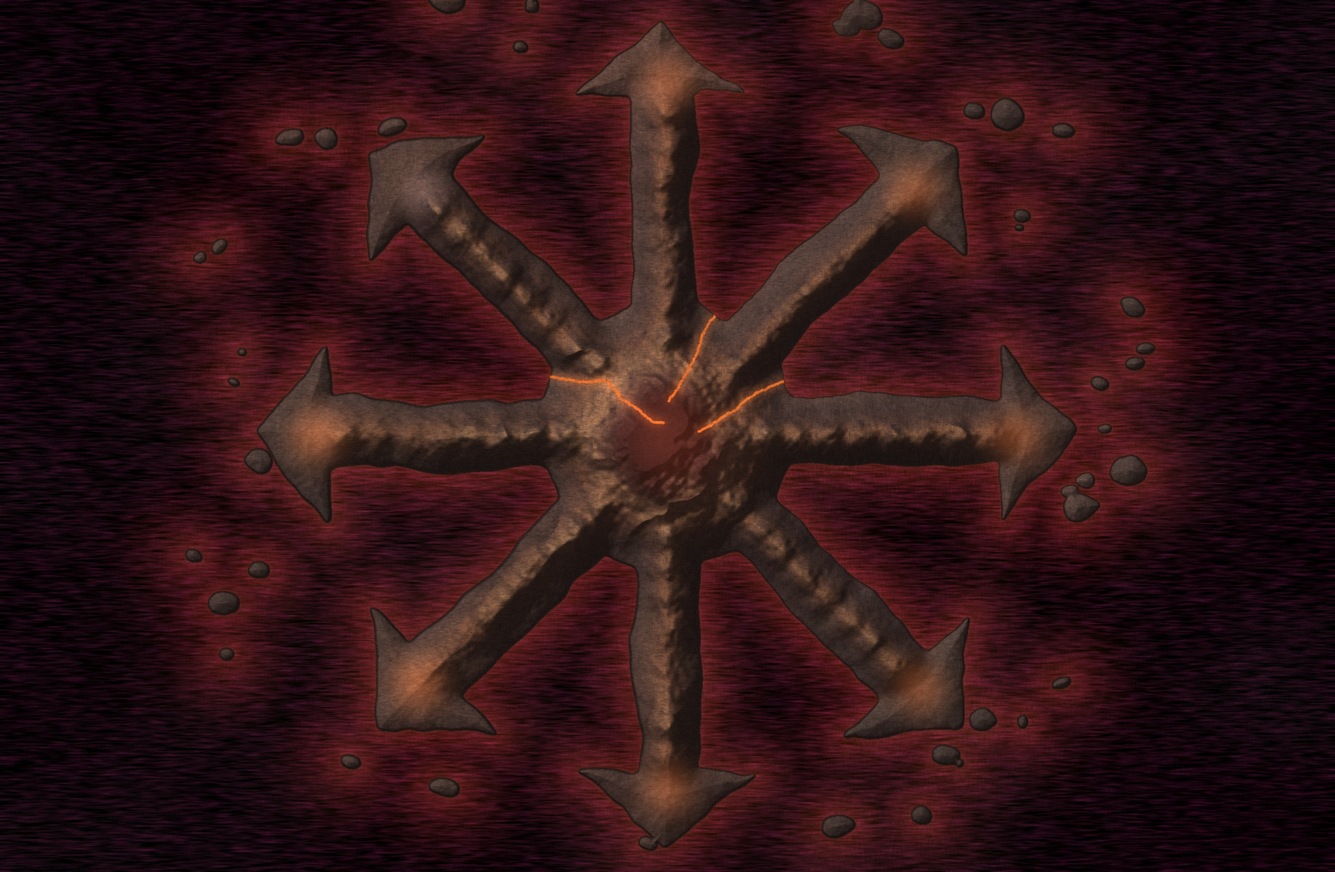
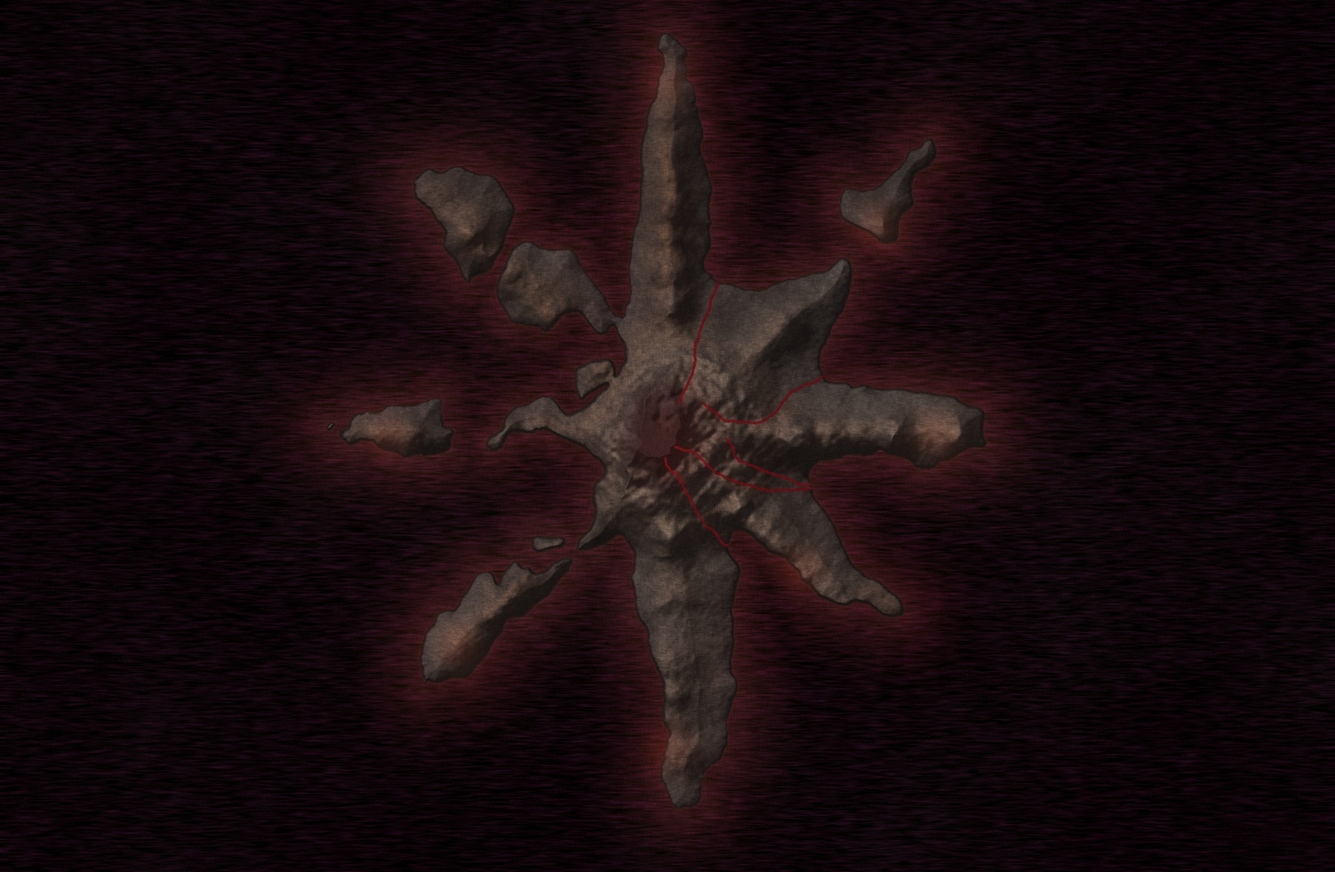
The Eightpoints, torn rather than stamped
The stencilled star was too much: a realm you read at a glance is not
one you look at twice. Italy is a boot only if you are told.

The star is now a bias on where the ground survived, not a shape. Land
held along the eight arms and sank between them; rifts cracked the arms
through where the realm was remade; the arm-ends broke into isles, so
three of the arcways stand on fragments off the mainland. The Varanspire's
plateau alone did not break. Seen once it is a wasteland. Seen twice, it
is the symbol.

And it is dismal, not Aqshy. The rivers run dark — is that blood? maybe
— the ground is ash and dead timber, scorched earth pools in the
hollows, and the void is black more than crimson. The arcways burn low.

The arm-tip walker now crosses the gaps a torn arm has, so a gate lands
on the last ground along its bearing rather than collapsing back onto
the hub when the arm breaks.

diff --git a/src/data/maps/eightpoints.js b/src/data/maps/eightpoints.js
@@ -27,16 +27,16 @@ export default {
       "name": "Carngrad",
       "kind": "fortress",
       "region": "The Eightpoints",
-      "x": 1027,
-      "y": 1036
+      "x": 1039,
+      "y": 1049
     },
     {
       "id": "flayhaunt",
       "name": "Flayhaunt",
       "kind": "fortress",
       "region": "The Eightpoints",
-      "x": 1646,
-      "y": 769
+      "x": 1640,
+      "y": 750
     },
     {
       "id": "arcway-fire",
@@ -44,22 +44,22 @@ export default {
       "kind": "settlement",
       "region": "The Eightpoints",
       "x": 1300,
-      "y": 161
+      "y": 155
     },
     {
       "id": "arcway-life",
       "name": "The Genesis Gate",
       "kind": "settlement",
       "region": "The Eightpoints",
-      "x": 1783,
-      "y": 366
+      "x": 1708,
+      "y": 441
     },
     {
       "id": "arcway-beasts",
       "name": "The Mawgate",
       "kind": "settlement",
       "region": "The Eightpoints",
-      "x": 1981,
+      "x": 1823,
       "y": 850
     },
     {
@@ -67,8 +67,8 @@ export default {
       "name": "The Endgate",
       "kind": "settlement",
       "region": "The Eightpoints",
-      "x": 1792,
-      "y": 1342
+      "x": 1560,
+      "y": 1110
     },
     {
       "id": "arcway-metal",
@@ -76,22 +76,22 @@ export default {
       "kind": "settlement",
       "region": "The Eightpoints",
       "x": 1300,
-      "y": 1540
+      "y": 1458
     },
     {
       "id": "arcway-shadow",
       "name": "The Penumbral Gate",
       "kind": "settlement",
       "region": "The Eightpoints",
-      "x": 812,
-      "y": 1337
+      "x": 889,
+      "y": 1260
     },
     {
       "id": "arcway-light",
       "name": "The Arcway of Hysh",
       "kind": "settlement",
       "region": "The Eightpoints",
-      "x": 616,
+      "x": 756,
       "y": 850
     },
     {
@@ -99,16 +99,16 @@ export default {
       "name": "The Meteoric Gate (sealed)",
       "kind": "settlement",
       "region": "The Eightpoints",
-      "x": 819,
-      "y": 369
+      "x": 870,
+      "y": 420
     },
     {
       "id": "skarrgrim",
       "name": "Skarrgrim",
       "kind": "fortress",
       "region": "The Eightpoints",
-      "x": 1234,
-      "y": 1210
+      "x": 1242,
+      "y": 1198
     }
   ],
   "extraLinks": [],

diff --git a/scripts/paint-realm.py b/scripts/paint-realm.py
@@ -131,7 +131,7 @@ def tip_along(land, cx, cy, angle, back=48):
             break
         if land[y, x]:
             last = r
-        elif last is not None and r - last > 60:
+        elif last is not None and r - last > 320:   # a torn arm has gaps; keep going past them
             break
     r = max(0, (last or 0) - back)
     return int(cx + np.cos(angle) * r), int(cy + np.sin(angle) * r)
@@ -520,23 +520,26 @@ def compose_azyr(rng):
 # arcway at the tip of every arm.
 
 EIGHTPOINTS = {
-    'water': [(0, (64, 14, 26)), (0.4, (34, 8, 18)), (1, (12, 4, 10))],
-    'shelf': (130, 48, 36),
-    'land': [(0, (78, 60, 52)), (0.12, (66, 52, 46)), (0.35, (98, 66, 48)),
-             (0.6, (124, 92, 66)), (0.85, (70, 48, 44)), (1, (44, 30, 30))],
-    'forest': (52, 40, 36),
-    'rock': (56, 44, 42),
-    'peak': (36, 22, 24),
+    'water': [(0, (38, 10, 16)), (0.4, (22, 6, 12)), (1, (8, 3, 6))],
+    'shelf': (84, 40, 36),
+    'land': [(0, (70, 62, 58)), (0.12, (62, 56, 52)), (0.35, (84, 70, 60)),
+             (0.6, (104, 88, 74)), (0.85, (66, 52, 48)), (1, (44, 34, 32))],
+    'land2': [(0, (58, 50, 50)), (0.12, (72, 58, 50)), (0.35, (92, 68, 54)),
+              (0.6, (86, 76, 70)), (0.85, (60, 48, 46)), (1, (40, 32, 32))],
+    'forest': (34, 30, 28),            # dead timber, standing black
+    'rock': (52, 46, 44),
+    'peak': (36, 28, 28),
     'peak_from': 0.76,
-    'drift': (22, 10, 6),
-    'river': (255, 120, 40),      # lava, not water
+    'drift': (16, 8, 6),
+    'river': (110, 12, 18),            # is that blood? maybe
     'river_width': 3,
-    'river_glow': 0.9,
-    'water_grain': 12,
+    'river_glow': 0.12,
+    'rubble': (18, 10, 10),            # scorched earth pooled in the hollows
+    'water_grain': 8,
     'water_scale': 12,
-    'water_streak': (12, 3, 8),
-    'tint': (70, 20, 30),
-    'tint_amount': 0.06,
+    'water_streak': (8, 2, 6),
+    'tint': (40, 16, 22),
+    'tint_amount': 0.10,
 }
 
 
@@ -545,39 +548,25 @@ def compose_eightpoints(rng):
     cx, cy = 1300, 850
     # The Allpoints as the name says: eight arms out from the Varanspire, with
     # the coast crumbling off every one of them into a sea that is not water.
-    # Archaon did not find this shape; he made it. The Star of Chaos, drawn as
-    # ground: a disc for the Varanspire, eight straight arms out from it, and
-    # an arrowhead on the end of every one. The coast crumbles enough to be a
-    # coast and no more, so the symbol stays legible from the overview.
-    mask = np.zeros(shape, np.float32)
-    cv2.circle(mask, (cx, cy), 250, 1.0, -1)
-    for k in range(8):
-        a = -np.pi / 2 + k * np.pi / 4
-        ux, uy = np.cos(a), np.sin(a)
-        px, py = -uy, ux                       # across the arm
-        shaft_w, shaft_len, head_w, head_len = 64, 470, 180, 150
-        s0, s1 = 180, 180 + shaft_len
-        shaft = np.array([
-            (cx + ux * s0 + px * shaft_w, cy + uy * s0 + py * shaft_w),
-            (cx + ux * s1 + px * shaft_w, cy + uy * s1 + py * shaft_w),
-            (cx + ux * s1 - px * shaft_w, cy + uy * s1 - py * shaft_w),
-            (cx + ux * s0 - px * shaft_w, cy + uy * s0 - py * shaft_w),
-        ], np.int32)
-        head = np.array([
-            (cx + ux * s1 + px * head_w, cy + uy * s1 + py * head_w),
-            (cx + ux * (s1 + head_len), cy + uy * (s1 + head_len)),
-            (cx + ux * s1 - px * head_w, cy + uy * s1 - py * head_w),
-        ], np.int32)
-        cv2.fillPoly(mask, [shaft], 1.0)
-        cv2.fillPoly(mask, [head], 1.0)
-    field = cv2.GaussianBlur(mask, (0, 0), 6)
-    # Slag skerries off the arrowheads, so it is a realm and not a stencil.
-    for _ in range(50):
-        a = rng.uniform(0, 2 * np.pi); d = rng.uniform(780, 1000)
-        r = rng.uniform(24, 80)
-        field = np.maximum(field, blob(shape, cx + np.cos(a) * d, cy + np.sin(a) * d, r, r * 0.8, power=1.0) * rng.uniform(0.7, 1.0))
-    field += (fbm(rng, shape, octaves=6, base=18) - 0.5) * 0.28
-    field = coastify(field, rng, big=22, small=16)
+    # Archaon did not find this shape; he made it — but the realm was torn,
+    # not stamped. The star is a BIAS on where the ground survived: land holds
+    # along the eight arms and has sunk between them, and even the arms are
+    # cracked through by rifts and broken off into isles at the ends. Seen
+    # once it is a wasteland. Seen twice, it is the symbol.
+    starf = star(shape, cx, cy, r_out=790, r_in=300, points=8, rot=-np.pi / 2) ** 0.32
+    starf = cv2.GaussianBlur(starf, (0, 0), 26)
+    starf /= starf.max() + 1e-6
+    base = fbm(rng, shape, octaves=6, base=5)
+    field = starf * 0.92 + base * 0.34 - 0.06
+    # The heart holds: the Varanspire's plateau did not break.
+    field += blob(shape, cx, cy, 260, 260, power=1.1) * 0.5
+    # Rifts: the realm cracked when it was remade, and the sea got in.
+    rift = np.clip(ridged(rng, shape, octaves=5, base=5) - 0.82, 0, 1) * 6
+    rift = cv2.GaussianBlur(rift, (0, 0), 4)
+    field -= rift * 0.6
+    # And the arm-ends are archipelagos, not points.
+    field += (fbm(rng, shape, octaves=6, base=22) - 0.5) * 0.42
+    field = coastify(field, rng, big=70, small=34)
     land = field > 0.5
 
     # The Varanspire's mountain at the heart, and a spine down each arm.
@@ -585,7 +574,7 @@ def compose_eightpoints(rng):
     for k in range(8):
         a = -np.pi / 2 + k * np.pi / 4
         for t in np.linspace(0.25, 0.8, 8):
-            ranges = np.maximum(ranges, blob(shape, cx + np.cos(a) * 780 * t, cy + np.sin(a) * 780 * t, 70, 70, power=1.4) * (0.9 - 0.4 * t))
+            ranges = np.maximum(ranges, blob(shape, cx + np.cos(a) * 780 * t, cy + np.sin(a) * 780 * t, 70, 70, power=1.4) * (0.9 - 0.4 * t) * rng.uniform(0.3, 1.0))
     ranges = cv2.GaussianBlur(ranges, (0, 0), 14)
     sea = 0.36
     height = relief(land, rng, ranges=ranges, sea=sea, rise=0.16, grain=0.12, crest_amp=0.55)
@@ -601,18 +590,17 @@ def compose_eightpoints(rng):
     # Fire at the top, then round the compass, so the star reads as a rose.
     for k, pid in enumerate(arcways):
         a = -np.pi / 2 + k * np.pi / 4
-        coords[pid] = tip_along(land, cx, cy, a, back=110)   # inside the arrowhead
+        coords[pid] = tip_along(land, cx, cy, a, back=90)    # the last ground on the arm
     coords['carngrad'] = (cx - 330, cy + 130)
     coords['flayhaunt'] = (cx + 340, cy - 100)
     coords['skarrgrim'] = (cx - 70, cy + 360)
     coords = snap_to_land(height, sea, coords)
 
-    glow = [(x, y, 46, (255, 120, 50), 0.4) for pid, (x, y) in coords.items() if pid.startswith('arcway') and pid != 'arcway-heavens']
-    glow.append((coords['arcway-heavens'][0], coords['arcway-heavens'][1], 40, (180, 200, 255), 0.12))
-    glow.append((cx, cy, 90, (255, 90, 40), 0.3))
-    # Lava runs down from the Varanspire and the spines.
-    lava = rivers(height, sea, rng, count=10, min_start=0.6)
-    return height, sea, forest, glow, coords, lava
+    glow = [(x, y, 40, (200, 70, 40), 0.18) for pid, (x, y) in coords.items() if pid.startswith('arcway') and pid != 'arcway-heavens']
+    glow.append((cx, cy, 80, (200, 60, 40), 0.16))
+    # Rivers run dark off the high ground. A couple off the Varanspire are lava.
+    dark = rivers(height, sea, rng, count=12, min_start=0.55)
+    return height, sea, forest, glow, coords, dark
 
 
 # --- Blight City ------------------------------------------------------------
